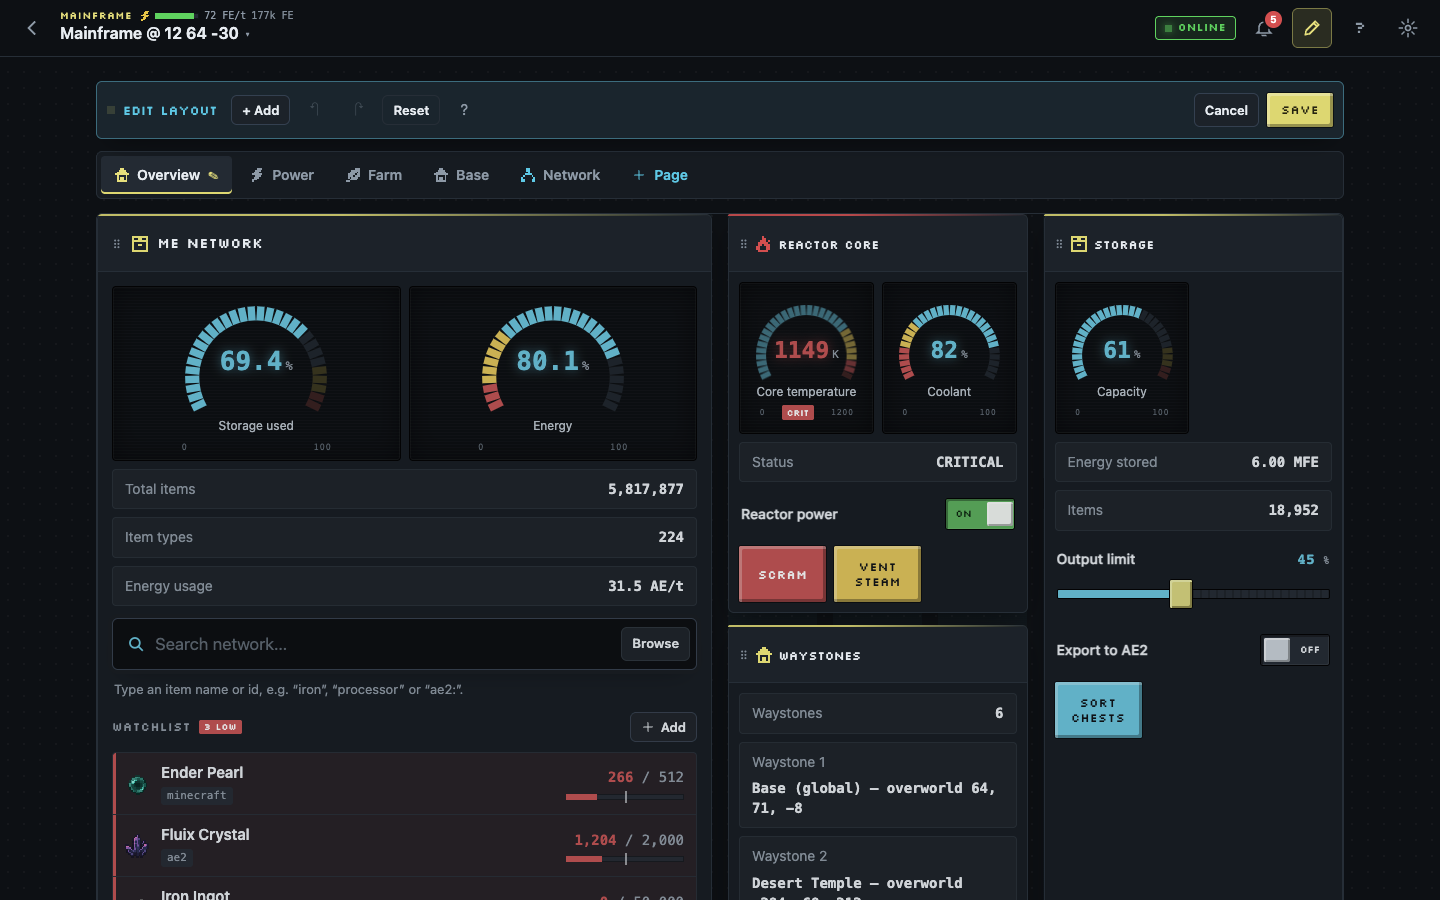
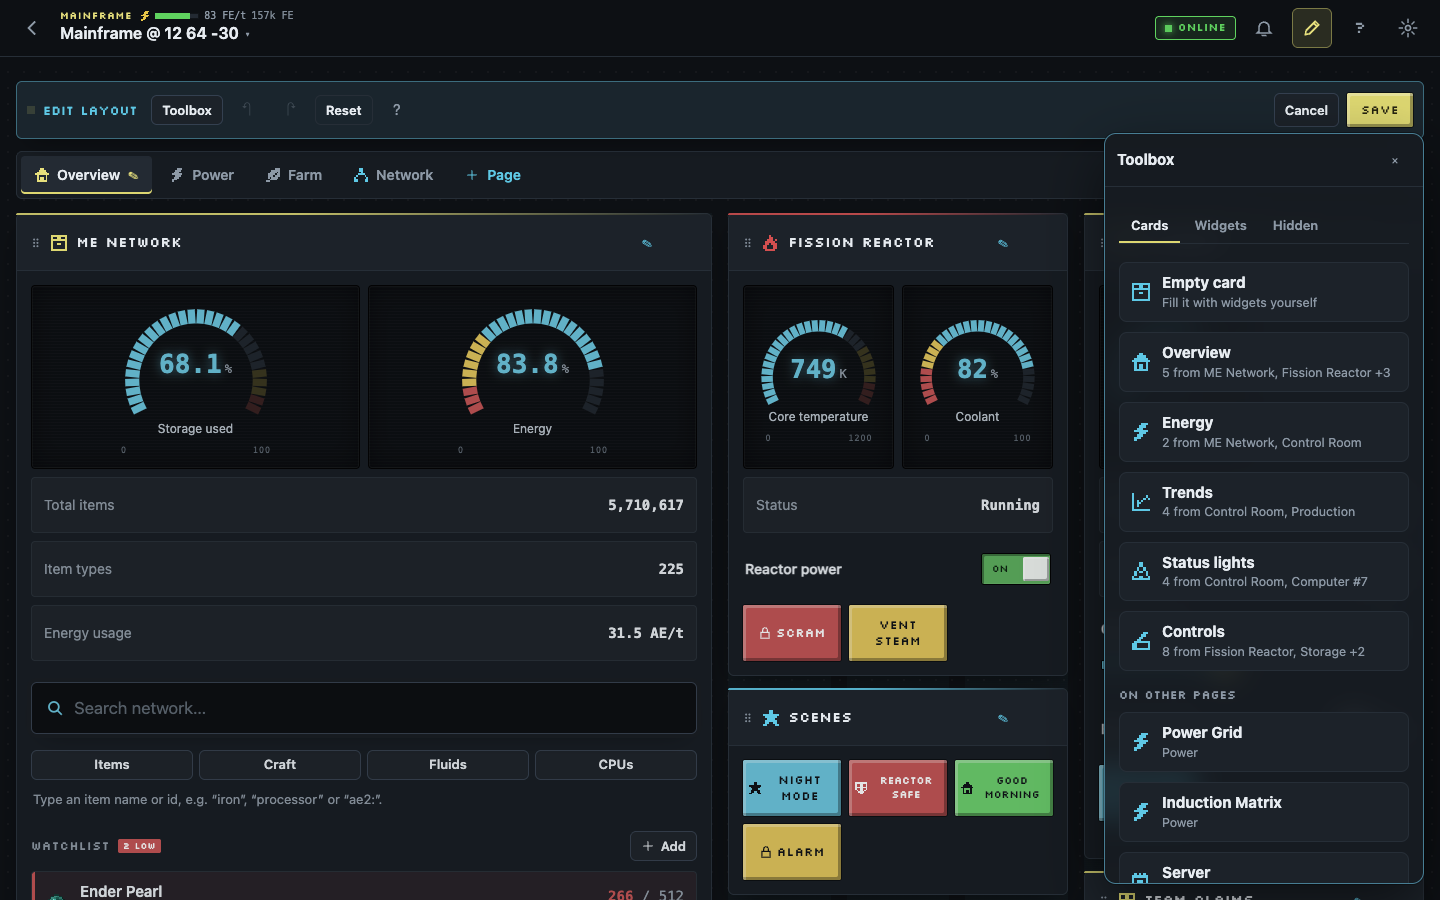
Refresh the editor and LAN-only screenshots

diff --git a/cloud/dev/mock-server.ts b/cloud/dev/mock-server.ts
@@ -419,7 +419,7 @@ export async function createMockServer(opts: MockOptions = {}) {
   };
   const LAN_ONLY = {
     error: "internet_access_disabled",
-    message: "This server only allows dashboard access from the local network. An admin can set webAllowInternet=true in the cccloud server config.",
+    message: "This CC: Cloud dashboard only accepts connections from the local network. Server admins can allow internet access in game with /cccloud internet, or with internetAccess in serverconfig/cccloud-server.toml (docs: Security & hosting).",
   };
   const connsByIp = new Map<string, number>();
   let connCount = 0;
